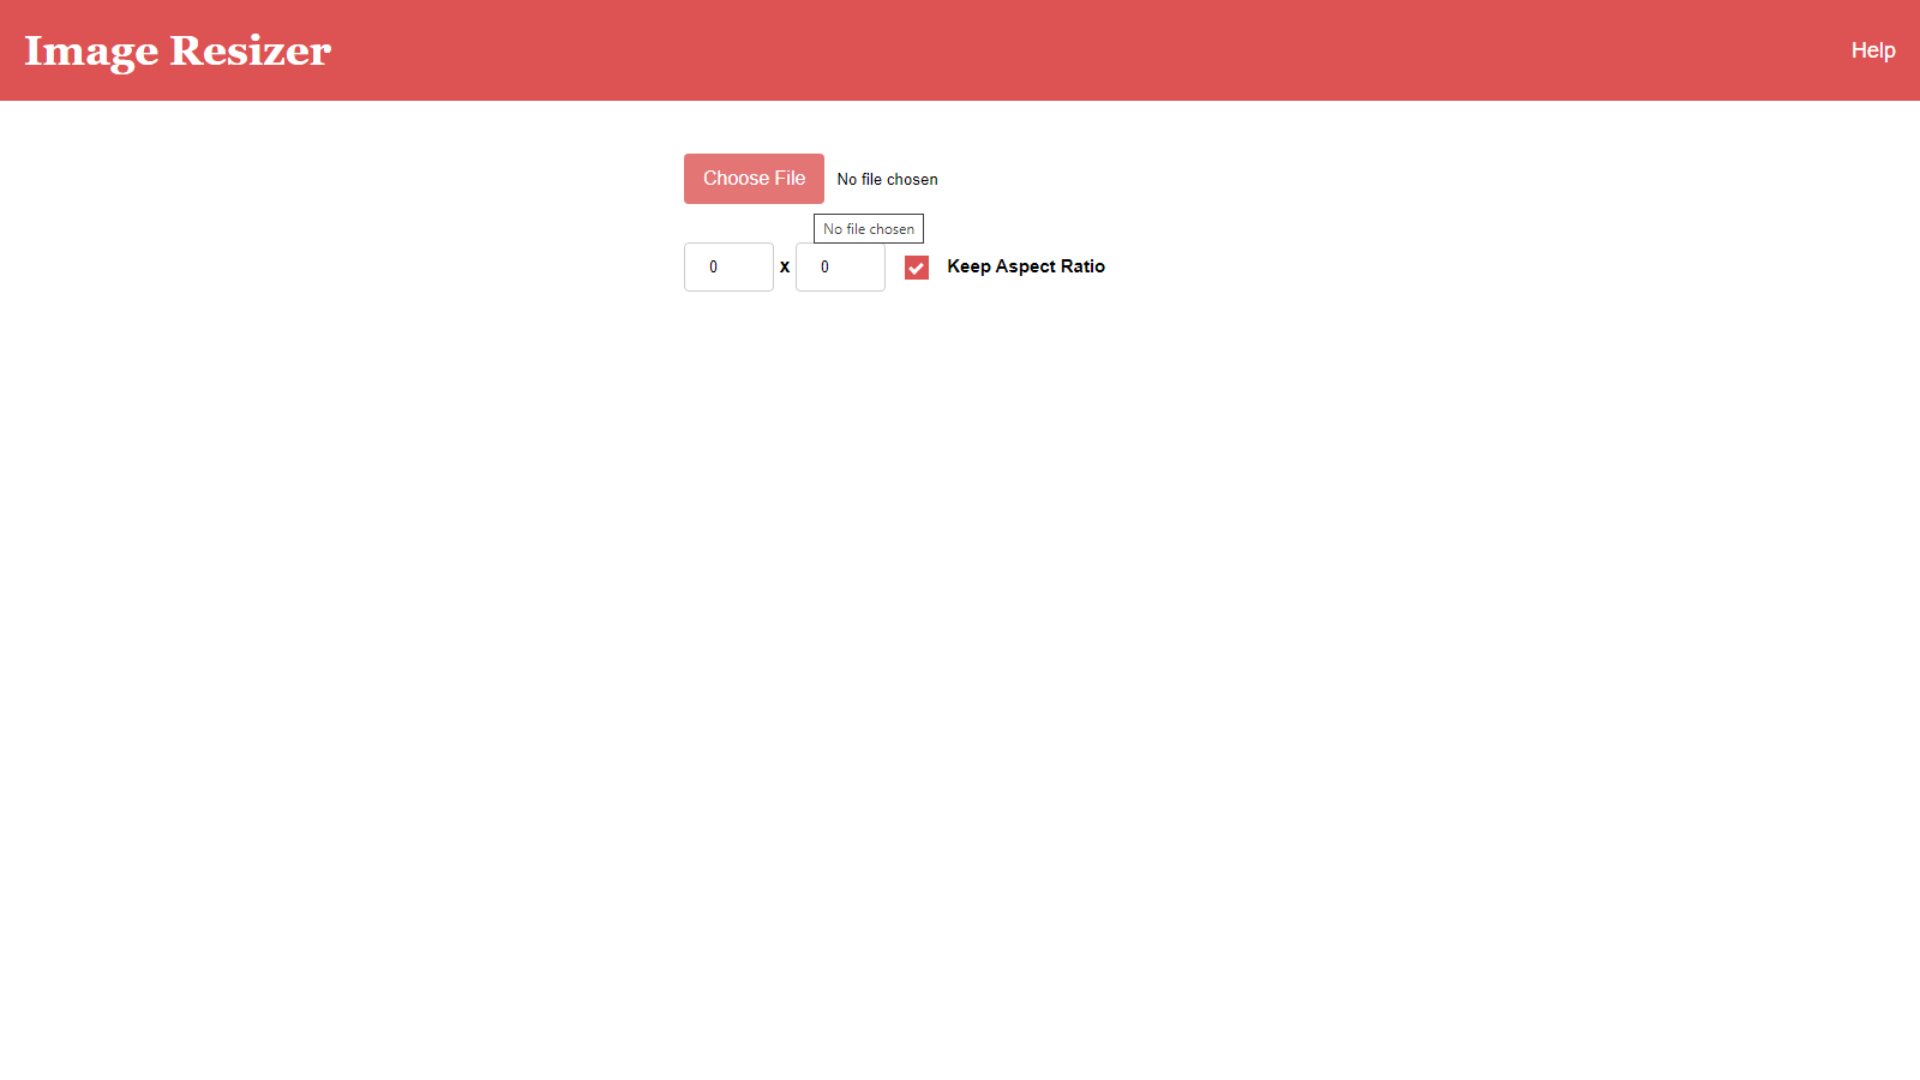
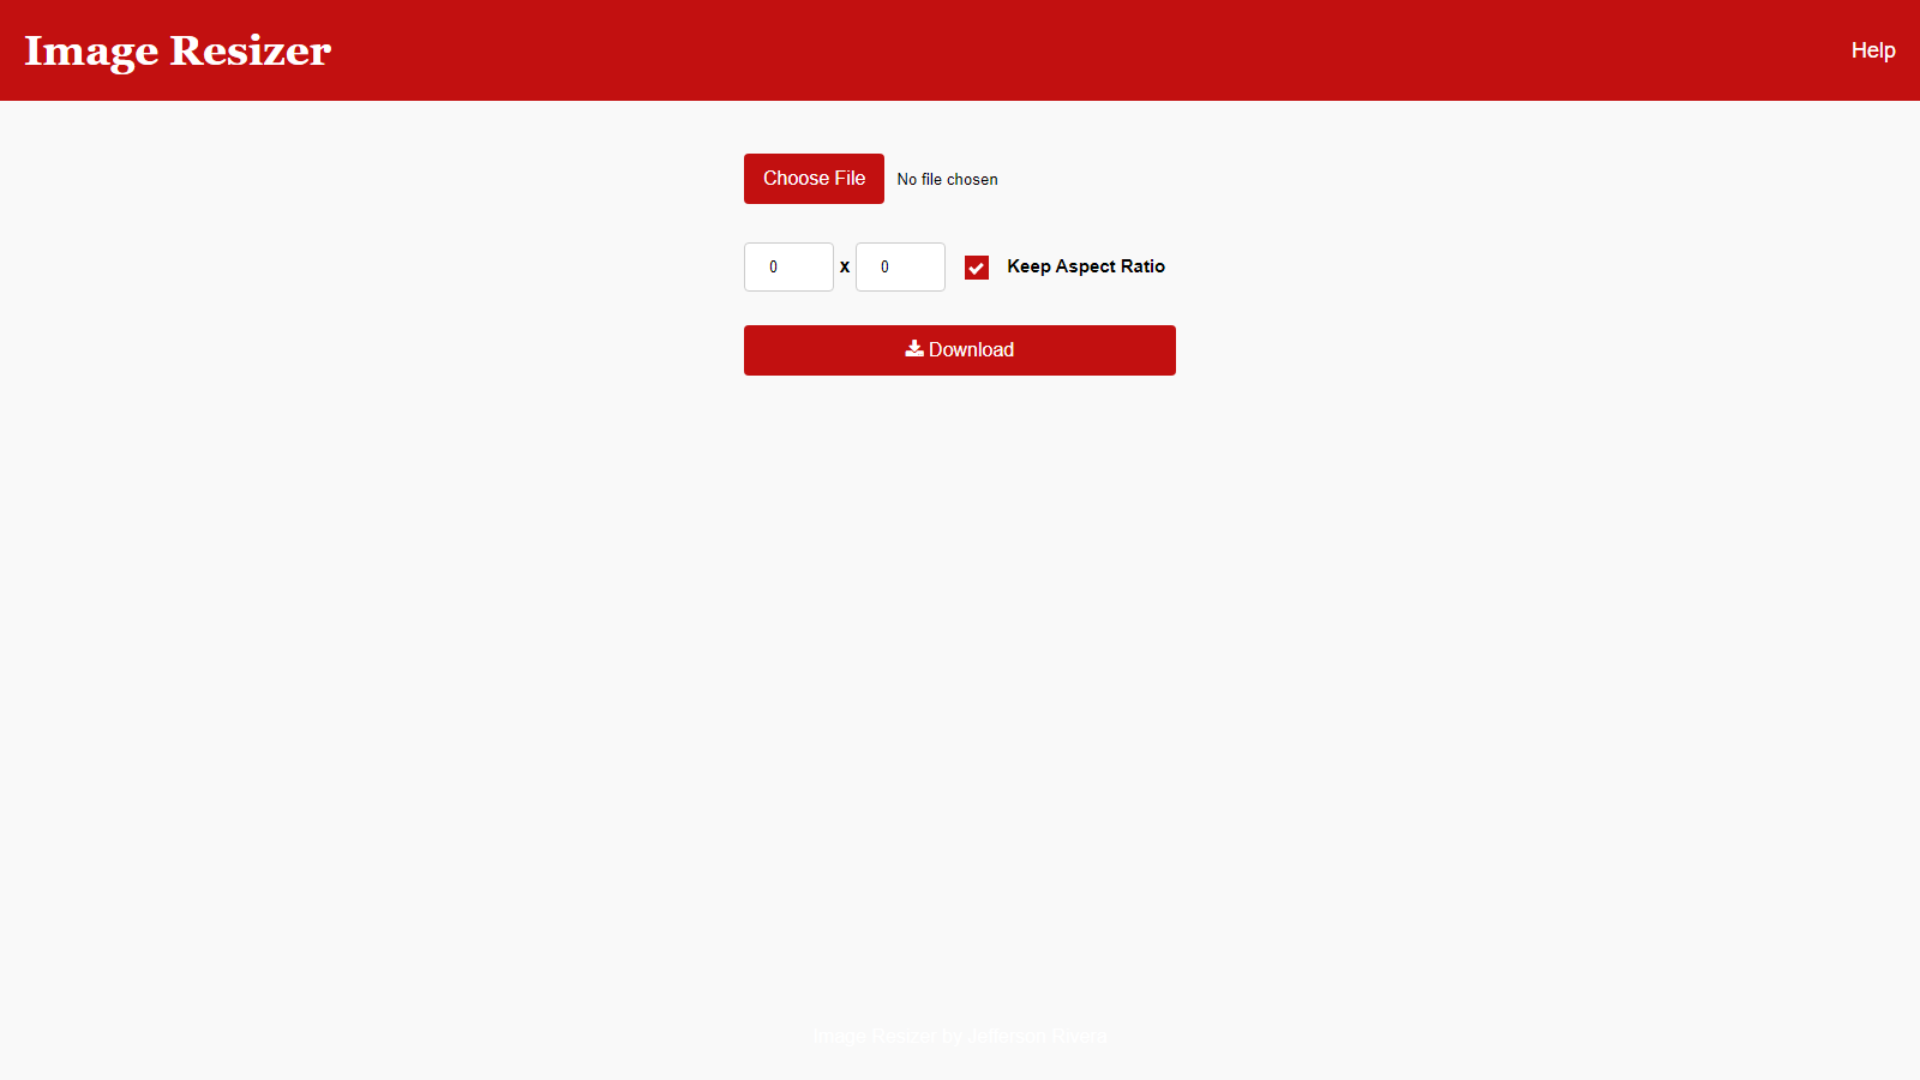
2

Changed region(s): [[0.0, 0.0, 1.0, 0.0917], [0.3438, 0.1222, 0.625, 0.3667]]

diff --git a/home.css b/home.css
@@ -11,6 +11,16 @@ html, body {
   height: calc(var(--vh, 1vh) * 100);
 }
 
+
+body {
+  margin: 0;
+  font-family: sans-serif;
+  background-color: #F9F9F9;
+  width: 100%;
+  overflow:scroll;
+  overflow-x:hidden;
+  }
+
 html {
     overflow: scroll;
     overflow-x: hidden;
@@ -24,6 +34,64 @@ html {
     background: #FF0000;
 }
 
+.dropdown {
+  overflow: hidden;
+  margin: auto;
+}
+
+.dropdown .dropbtn {
+  background-color: #C21010;
+  border: none;
+  color: white;
+  width: 100%;
+  padding: 12px 12px;
+  text-align: center;
+  font-size: 16px;
+  border-radius: 4px;
+  margin: auto;
+  margin-bottom: 2px;
+  opacity: 1;
+  transition: 0.3s;
+  display: block;
+  text-decoration: none;
+  cursor: pointer;
+}
+
+.dropdown:hover .dropbtn {
+  background-color: #820000;
+}
+
+.dropdown-content {
+  border-radius: 4px;
+  display: none;
+  background-color: #820000;
+  min-width: 160px;
+  box-shadow: 0px 8px 16px 0px rgba(0,0,0,0.2);
+  z-index: 1;
+  position: relative;
+  text-align: center;
+}
+
+.dropdown-content a {
+  border-radius: 4px;
+  margin: 2px;
+  transition: 0.3s;
+  cursor: pointer;
+  float: none;
+  color: white;
+  padding: 12px 12px;
+  text-decoration: none;
+  display: inline-block;
+}
+
+.dropdown-content a:hover {
+  background-color: #B25068;
+}
+
+.dropdown:hover .dropdown-content {
+  display: block;
+}
+
 .canvas-div p{
  margin: 0 auto;
  color: white;
@@ -35,12 +103,12 @@ html {
   font-family: sans-serif;
   font-weight: bold;
   padding: 20px;
-  width: 500px;
+  width: 25%;
   margin: 0 auto;
 }
 
-::-webkit-file-upload-button {
-  background-color: #DD5353;
+::-webkit-file-upload-button, input[type=button] {
+  background-color: #C21010;
   border: none;
   color: white;
   padding: 12px 16px;
@@ -56,8 +124,12 @@ html {
   cursor: pointer;
 }
 
+::-webkit-file-upload-button:hover, input[type=button]:hover {
+  opacity: 0.8;
+}
+
 h1{
-  color: #DD5353;
+  color: #C21010;
 }
 
 p.p1{ 
@@ -69,9 +141,7 @@ p.p1{
   padding-bottom: 20px;
   width: 60%;
 }
-::-webkit-file-upload-button:hover {
-  opacity: 0.8;
-}
+
 
 input[type=text], select {
   padding: 12px 20px;
@@ -123,7 +193,7 @@ input[type=text], select {
 
 /* When the checkbox is checked, add a blue background */
 .container input:checked ~ .checkmark {
-  background-color: #DD5353;
+  background-color: #C21010;
 }
 
 /* Create the checkmark/indicator (hidden when not checked) */
@@ -154,8 +224,9 @@ input[type=text], select {
 }
 
 .canvas-div {
+  padding: 20px;
   text-align: center;
-  width: 50%;
+  width: 31.25%;
   background-color: rgba(0, 0, 0, 0);
   margin: 0 auto;
 }
@@ -184,19 +255,11 @@ footer {
 
 * {box-sizing: border-box;}
 
-body {
-  margin: 0;
-  font-family: sans-serif;
-  background-color: #ffffff;
-  width: 100%;
-  overflow:scroll;
-  overflow-x:hidden;
-  }
 
 .header {
   width: 100%;
   overflow: hidden;
-  background-color: #DD5353;
+  background-color: #C21010;
   padding: 12px 10px;
   margin-bottom: 20px;
 }
@@ -279,7 +342,7 @@ img.header-logo {
   cursor: pointer;
 }
 
-@media screen and (max-width: 500px) {
+@media screen and (max-width: 1200px) {
   .header a {
     float: none;
     display: block;

diff --git a/index.html b/index.html
@@ -3,6 +3,7 @@
 <title>Image Resizer</title>
 <head>
 <meta name="viewport" content="width=device-width, height=device-height, initial-scale=1">
+<link rel="stylesheet" href="https://cdnjs.cloudflare.com/ajax/libs/font-awesome/4.7.0/css/font-awesome.min.css">
 <link rel="stylesheet" href="home.css">
 </head>
 <body>
@@ -28,16 +29,15 @@
 	<p>Use the input boxes to set your desired size for the attached image.</p>	
 	<img class="tut-img" src="stp2.png">
 	<p class="p1">Step 3</p>
-	<p>Right click on your image and save the image to your device.</p>	
+	<p>Hover or click your mouse in download button to save your image as jpg, png, gif, or webp file.</p>	
 	<img class="tut-img" src="stp3.png">
-	<img class="tut-img" src="stp3-3.png">
 	<p class="p1">Done!</p>
   </div>
 
 </div>
 				
 <div class="resizer">
-  <input type="file" class="resizer__file">
+  	  <input type="file" class="resizer__file">
   <div class="dimensions">
     <input type="text" class="resizer__input resizer__input--width" value="0">
     x
@@ -47,9 +47,19 @@
       <span class="checkmark"></span>
     </label>
   </div>
+<div class="dropdown">
+    <button class="dropbtn"><i class="fa fa-download"></i> Download
+    </button>
+    <div class="dropdown-content">
+      <a type="button" value="JPG" onclick="candown('demo', 'jpg')"/>JPG</a>
+      <a type="button" value="PNG" onclick="candown('demo', 'png')"/>PNG</a>
+      <a type="button" value="GIF" onclick="candown('demo', 'gif')"/>GIF</a>
+      <a type="button" value="WEBP" onclick="candown('demo', 'webp')"/>WEBP</a>
+    </div>
+  </div>  
 </div>
 <div class="canvas-div">
-<canvas class="resizer__canvas" width="500" height="500"></canvas>
+<canvas id="demo" class="resizer__canvas" width="500" height="500"></canvas>
 </div>
 <footer>
   <p class="text3">Image Resizer by Jefferson Rivera<br>

diff --git a/image-resizer-js.js b/image-resizer-js.js
@@ -83,3 +83,21 @@ window.onclick = function(event) {
     modal.style.display = "none";
   }
 }
+
+function candown (target, type) {
+  // (B1) GET CANVAS
+  let canvas = document.getElementById(target);
+ 
+   // (B2) CREATE LINK
+  let anchor = document.createElement("a");
+  anchor.download = "download." + type;
+  anchor.href = canvas.toDataURL("image/" + type);
+ 
+  // (B3) "FORCE DOWNLOAD"
+  anchor.click();
+  anchor.remove();
+ 
+  // (B4) SAFER ALTERNATIVE - LET USER CLICK ON LINK
+  // anchor.innerHTML = "Download";
+  // document.body.appendChild(anchor);
+}
